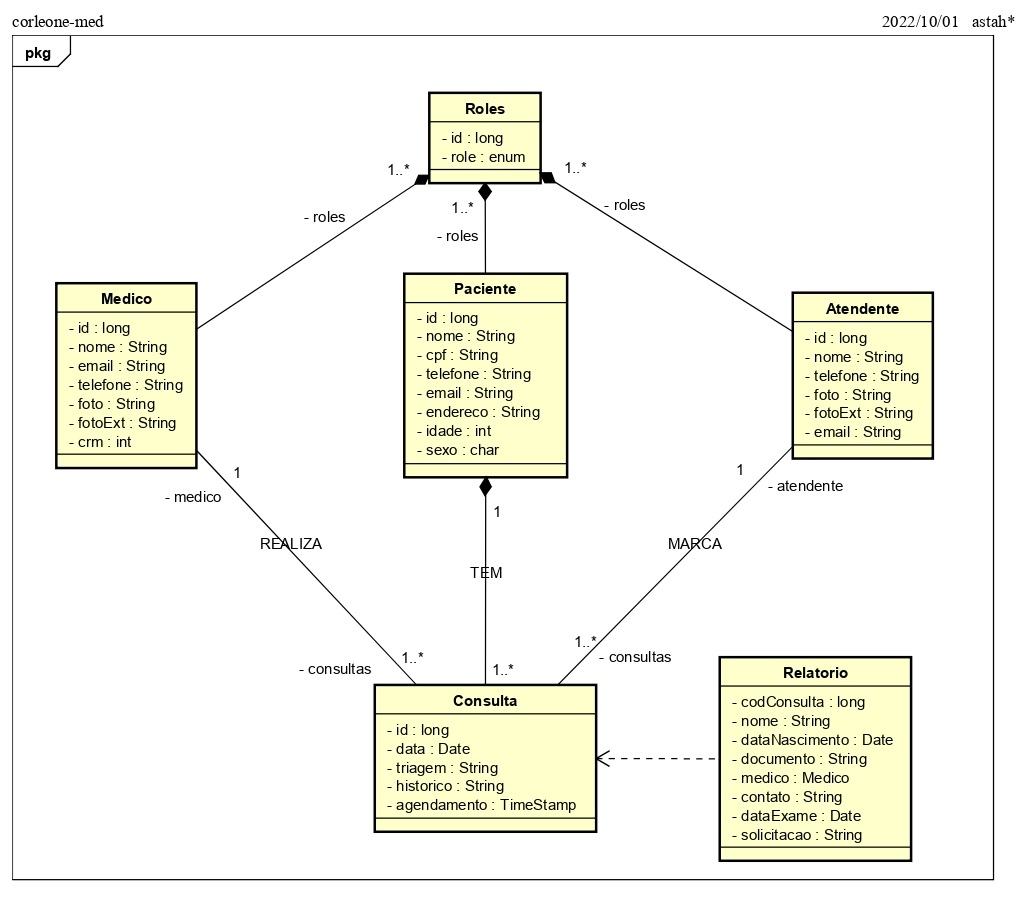
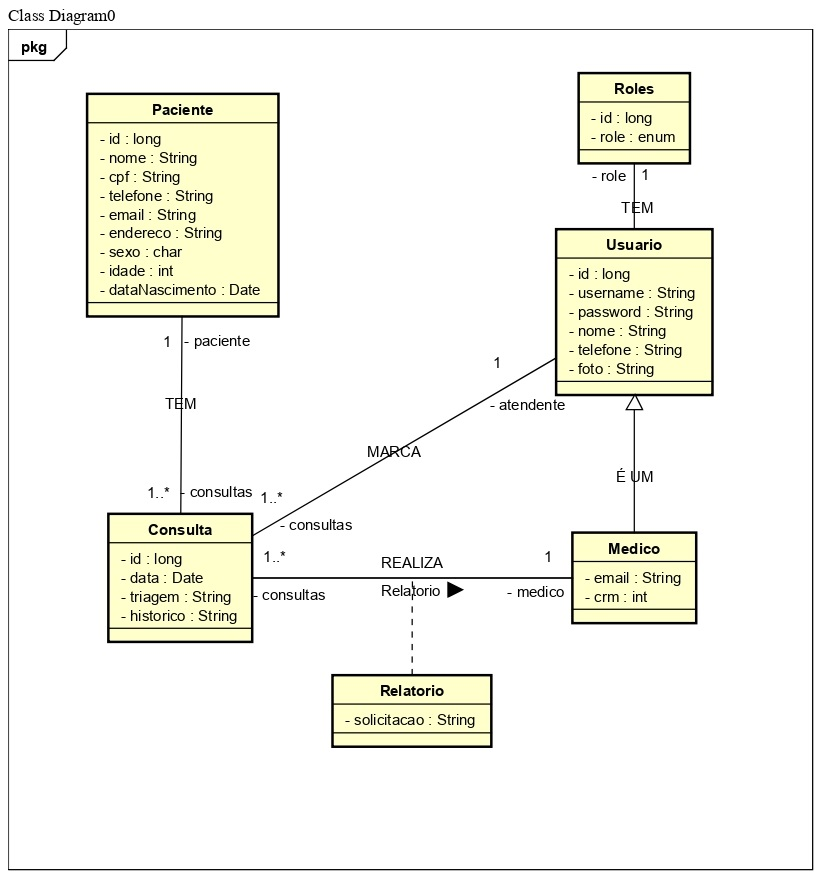
Refatorando UML

diff --git a/src/main/java/br/com/corleone/medlife/DataBaseSeed.java b/src/main/java/br/com/corleone/medlife/DataBaseSeed.java
@@ -1,0 +1,36 @@
+package br.com.corleone.medlife;
+
+import java.util.Arrays;
+
+import org.springframework.boot.CommandLineRunner;
+import org.springframework.context.annotation.Configuration;
+import org.springframework.context.annotation.Profile;
+
+import br.com.corleone.medlife.model.entities.Medico;
+import br.com.corleone.medlife.model.entities.Usuario;
+import br.com.corleone.medlife.repository.MedicoRepository;
+import br.com.corleone.medlife.repository.UsuarioRepository;
+import lombok.RequiredArgsConstructor;
+
+@Configuration
+@Profile("test")
+@RequiredArgsConstructor
+public class DataBaseSeed implements CommandLineRunner {
+
+  private final MedicoRepository medicoRepository;
+  private final UsuarioRepository usuarioRepository;
+
+  @Override
+  public void run(String... args) throws Exception {
+
+    Medico m1 = new Medico("teste@mail.com", "11-985745412", 123, "medico1", "123", "Medico Um");
+    Medico m2 = new Medico("teste2@mail.com", "11-985745412", 123, "medico2", "123", "Medico Dois");
+    Medico m3 = new Medico("teste3@mail.com", "11-985745412", 123, "medico3", "123", "Medico Três");
+
+    Usuario u1 = new Usuario("usuario1", "123", "Usuario Um", "11-98574514");
+    Usuario u2 = new Usuario("usuario2", "123", "Usuario Dois", "11-98574514");
+    medicoRepository.saveAll(Arrays.asList(m1, m2, m3));
+    usuarioRepository.saveAll(Arrays.asList(m1, m2, m3, u1, u2));
+  }
+
+}

diff --git a/src/main/java/br/com/corleone/medlife/model/entities/Usuario.java b/src/main/java/br/com/corleone/medlife/model/entities/Usuario.java
@@ -1,0 +1,48 @@
+package br.com.corleone.medlife.model.entities;
+
+import javax.persistence.Entity;
+import javax.persistence.GeneratedValue;
+import javax.persistence.GenerationType;
+import javax.persistence.Id;
+import javax.persistence.Inheritance;
+import javax.persistence.InheritanceType;
+import javax.persistence.Lob;
+import javax.validation.constraints.NotNull;
+import javax.validation.constraints.Size;
+
+import lombok.Data;
+
+@Entity
+@Data
+@Inheritance(strategy = InheritanceType.JOINED)
+public class Usuario {
+
+  public Usuario() {
+  }
+
+  public Usuario(String username, String password, String nome, String telefone) {
+    this.username = username;
+    this.password = password;
+    this.nome = nome;
+    this.telefone = telefone;
+  }
+
+  @Id
+  @GeneratedValue(strategy = GenerationType.IDENTITY)
+  private Long id;
+
+  private String username;
+  private String password;
+
+  @NotNull
+  @Size(min = 2, message = "Nome deve ter no mínimo 2 caracteres")
+  private String nome;
+
+  @NotNull
+  @Size(min = 8, max = 14, message = "Preencha um telefone válido")
+  private String telefone;
+
+  @Lob
+  private Byte foto;
+
+}

diff --git a/src/main/java/br/com/corleone/medlife/model/entities/Medico.java b/src/main/java/br/com/corleone/medlife/model/entities/Medico.java
@@ -1,0 +1,32 @@
+package br.com.corleone.medlife.model.entities;
+
+import javax.persistence.Entity;
+import javax.persistence.PrimaryKeyJoinColumn;
+import javax.validation.constraints.Email;
+import javax.validation.constraints.NotNull;
+
+import lombok.Getter;
+import lombok.Setter;
+
+@Entity
+@PrimaryKeyJoinColumn(name = "id")
+@Getter
+@Setter
+public class Medico extends Usuario {
+
+  public Medico() {
+  }
+
+  public Medico(String email, String telefone, Integer crm, String username, String password, String nome) {
+    super(username, password, nome, telefone);
+    this.email = email;
+    this.crm = crm;
+  }
+
+  @Email(message = "Digite um email válido")
+  private String email;
+
+  @NotNull
+  private Integer crm;
+
+}

diff --git a/src/main/java/br/com/corleone/medlife/model/entities/Roles.java b/src/main/java/br/com/corleone/medlife/model/entities/Roles.java
@@ -1,0 +1,23 @@
+package br.com.corleone.medlife.model.entities;
+
+import javax.persistence.Entity;
+import javax.persistence.EnumType;
+import javax.persistence.Enumerated;
+import javax.persistence.GeneratedValue;
+import javax.persistence.GenerationType;
+import javax.persistence.Id;
+
+import br.com.corleone.medlife.model.enums.RoleType;
+import lombok.Data;
+
+@Entity
+@Data
+public class Roles {
+
+  @Id
+  @GeneratedValue(strategy = GenerationType.IDENTITY)
+  private Long id;
+
+  @Enumerated(EnumType.STRING)
+  private RoleType roleType;
+}

diff --git a/src/main/java/br/com/corleone/medlife/repository/UsuarioRepository.java b/src/main/java/br/com/corleone/medlife/repository/UsuarioRepository.java
@@ -1,0 +1,9 @@
+package br.com.corleone.medlife.repository;
+
+import org.springframework.data.jpa.repository.JpaRepository;
+
+import br.com.corleone.medlife.model.entities.Usuario;
+
+public interface UsuarioRepository extends JpaRepository<Usuario, Long> {
+
+}

diff --git a/src/main/java/br/com/corleone/medlife/repository/MedicoRepository.java b/src/main/java/br/com/corleone/medlife/repository/MedicoRepository.java
@@ -1,0 +1,9 @@
+package br.com.corleone.medlife.repository;
+
+import org.springframework.data.jpa.repository.JpaRepository;
+
+import br.com.corleone.medlife.model.entities.Medico;
+
+public interface MedicoRepository extends JpaRepository<Medico, Long> {
+
+}

diff --git a/src/main/java/br/com/corleone/medlife/model/enums/RoleType.java b/src/main/java/br/com/corleone/medlife/model/enums/RoleType.java
@@ -1,0 +1,5 @@
+package br.com.corleone.medlife.model.enums;
+
+public enum RoleType {
+  ADMIN, MEDICO, ATENDENTE;
+}

diff --git a/README.md b/README.md
@@ -54,6 +54,7 @@
         <details>
           <summary><strong>Casos de uso</strong></summary>
         <div align="left">
+        <hr>
         <details>
           <summary><strong>Admin</strong></summary>
           <br/>
@@ -211,7 +212,7 @@
       <span>Task 1 : CRUD de sistema, relacionamentos entre entidades, encaminhamento de consulta do atendente para médico.</span>
       <p>- Back-End:</p>
       <ul>
-        <li>//TODO Configuração com banco de dados H2 para testes.
+        <li>Configuração com banco de dados H2 para testes.
         </li>
         <li>//TODO Criação das entidades e mapeamento Hibernate/Validation.
         </li>
@@ -234,7 +235,7 @@
       </ul>
       <p>- Front-End:</p>
       <ul>
-        <li>//TODO Configuração bootstrap.
+        <li>Configuração bootstrap.
         </li>
         <li>//TODO View admin-profile: views de cadastro para novo atendente, médico.
         </li>
